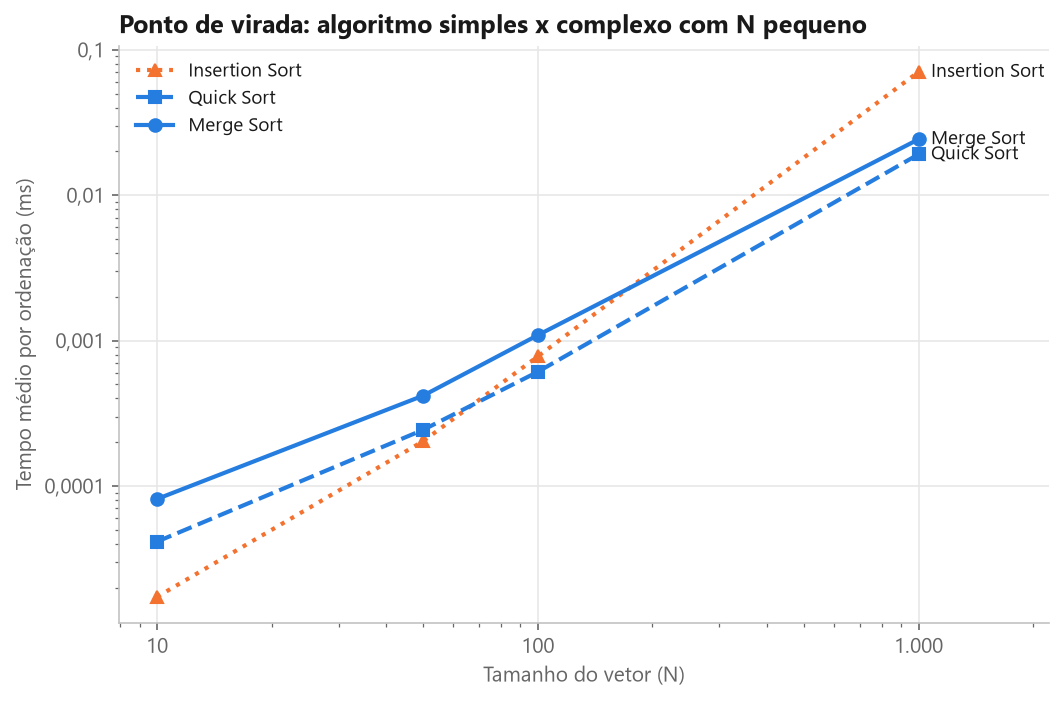
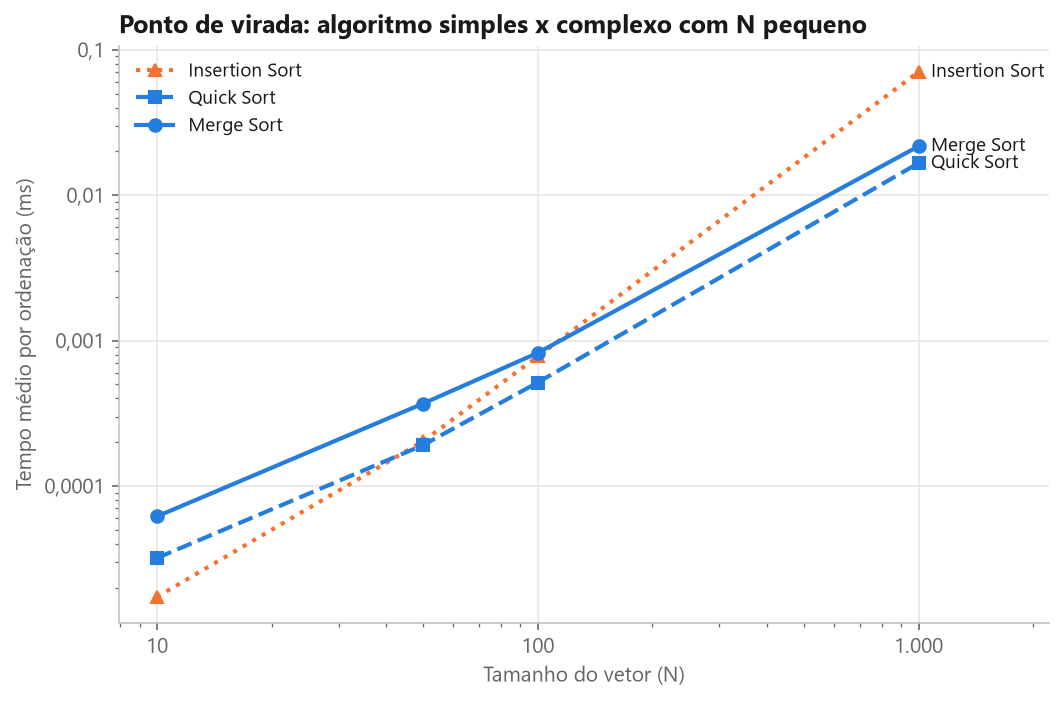
Remove alocacao de memoria da medicao de tempo
- Merge, Counting, Radix e Bucket Sort ganham versoes ...Aux que recebem
  os vetores auxiliares ja alocados
- benchmark.c pre-aloca essa memoria antes de qualquer medicao
- Nova opcao "sem_quadraticos" para medir so os algoritmos rapidos
- Resultados e graficos atualizados
- README documenta a correcao

Changed region(s): [[0.1242, 0.1797, 0.9624, 0.8088]]

diff --git a/benchmark.c b/benchmark.c
@@ -32,6 +32,43 @@
 #include "linear/radixSort.c"
 #include "linear/bucketSort.c"
 
+/* Memória de trabalho */
+
+// Merge, Counting, Radix e Bucket precisam de vetores auxiliares. Eles são
+// alocados uma vez só, antes de qualquer medição, e passados prontos para
+// as funções. Assim o tempo de alocação não entra no resultado.
+static int *trabAux, *trabCont, *trabBalde, *trabInicio, *trabPos;
+
+static void mergeSortBench(int *v, int n)    { mergeSortAux(v, n, trabAux); }
+static void countingSortBench(int *v, int n) { countingSortAux(v, n, trabCont, trabAux); }
+static void radixSortBench(int *v, int n)    { radixSortAux(v, n, trabAux); }
+static void bucketSortBench(int *v, int n) {
+    bucketSortAux(v, n, trabBalde, trabInicio, trabPos, trabAux);
+}
+
+// maxN: maior vetor testado; maxK: maior amplitude de valores
+static int alocarTrabalho(int maxN, int maxK) {
+    trabAux    = malloc((size_t)maxN * sizeof(int));
+    trabBalde  = malloc((size_t)maxN * sizeof(int));
+    trabPos    = malloc((size_t)maxN * sizeof(int));
+    trabInicio = malloc(((size_t)maxN + 1) * sizeof(int));
+    trabCont   = malloc((size_t)maxK * sizeof(int));
+    if (!trabAux || !trabBalde || !trabPos || !trabInicio || !trabCont) return 0;
+
+    // escreve em tudo uma vez, para o sistema já entregar a memória de
+    // verdade agora, e não durante a primeira medição
+    memset(trabAux,    0, (size_t)maxN * sizeof(int));
+    memset(trabBalde,  0, (size_t)maxN * sizeof(int));
+    memset(trabPos,    0, (size_t)maxN * sizeof(int));
+    memset(trabInicio, 0, ((size_t)maxN + 1) * sizeof(int));
+    memset(trabCont,   0, (size_t)maxK * sizeof(int));
+    return 1;
+}
+
+static void liberarTrabalho(void) {
+    free(trabAux); free(trabBalde); free(trabPos); free(trabInicio); free(trabCont);
+}
+
 /* Configuração do experimento */
 
 #define SEMENTE            12345      // semente fixa: o vetor sai sempre igual
@@ -64,12 +101,12 @@ static const Algoritmo ALGORITMOS[] = {
     {"Bubble Sort",    "Comparacao O(n^2)",     bubbleSort,    1},
     {"Selection Sort", "Comparacao O(n^2)",     selectionSort, 1},
     {"Insertion Sort", "Comparacao O(n^2)",     insertionSort, 1},
-    {"Merge Sort",     "Comparacao O(n log n)", mergeSort,     0},
-    {"Quick Sort",     "Comparacao O(n log n)", quickSort,     0},
-    {"Heap Sort",      "Comparacao O(n log n)", heapSort,      0},
-    {"Counting Sort",  "Linear O(n + k)",       countingSort,  0},
-    {"Radix Sort",     "Linear O(d(n + b))",    radixSort,     0},
-    {"Bucket Sort",    "Linear O(n + k)",       bucketSort,    0},
+    {"Merge Sort",     "Comparacao O(n log n)", mergeSortBench,    0},
+    {"Quick Sort",     "Comparacao O(n log n)", quickSort,         0},
+    {"Heap Sort",      "Comparacao O(n log n)", heapSort,          0},
+    {"Counting Sort",  "Linear O(n + k)",       countingSortBench, 0},
+    {"Radix Sort",     "Linear O(d(n + b))",    radixSortBench,    0},
+    {"Bucket Sort",    "Linear O(n + k)",       bucketSortBench,   0},
 };
 #define N_ALGORITMOS ((int)(sizeof(ALGORITMOS) / sizeof(ALGORITMOS[0])))
 
@@ -240,6 +277,8 @@ static void imprimirTabela(const char *titulo, const char *rotulo,
 
 int main(int argc, char *argv[]) {
     int rapido = (argc > 1 && strcmp(argv[1], "rapido") == 0);
+    // pula os O(n²): útil para medir de novo só os rápidos
+    int semQuadraticos = (argc > 1 && strcmp(argv[1], "sem_quadraticos") == 0);
     int nTam = N_TAMANHOS, nK = rapido ? 100000 : N_EXPERIMENTO_K;
     int t, a, k, lote, n, nLin;
     int todos[N_ALGORITMOS], lineares[N_ALGORITMOS];
@@ -254,6 +293,17 @@ int main(int argc, char *argv[]) {
     if (rapido) {
         nTam = 0;
         while (nTam < N_TAMANHOS && TAMANHOS[nTam] <= 10000) nTam++;
+    }
+
+    // tamanho da memória de trabalho: maior N e maior amplitude usados
+    {
+        int maxN = N_EXPERIMENTO_K, maxK = VALOR_MAX + 1;
+        for (t = 0; t < N_TAMANHOS; t++) if (TAMANHOS[t] > maxN) maxN = TAMANHOS[t];
+        for (k = 0; k < N_AMPLITUDES; k++) if (AMPLITUDES[k] > maxK) maxK = AMPLITUDES[k];
+        if (!alocarTrabalho(maxN, maxK)) {
+            fprintf(stderr, "Sem memoria para os vetores de trabalho\n");
+            return 1;
+        }
     }
 
     printf("Benchmark de algoritmos de ordenacao\n");
@@ -287,7 +337,7 @@ int main(int argc, char *argv[]) {
         qsort(ref, n, sizeof(int), comparar);
 
         for (a = 0; a < N_ALGORITMOS; a++) {
-            if (ALGORITMOS[a].quadratico && n > LIMITE_QUADRATICO) {
+            if (ALGORITMOS[a].quadratico && (n > LIMITE_QUADRATICO || semQuadraticos)) {
                 res1[a * N_TAMANHOS + t] = PULADO;
                 continue;
             }
@@ -366,6 +416,7 @@ int main(int argc, char *argv[]) {
     imprimirTabela("Experimento 2: tempo x amplitude dos valores", "K",
                    AMPLITUDES, N_AMPLITUDES, lineares, nLin, res2);
 
+    liberarTrabalho();
     printf("\nResultados salvos em resultados.csv e resultados_k.csv\n");
     return 0;
 }

diff --git a/linear/bucketSort.c b/linear/bucketSort.c
@@ -4,10 +4,13 @@
 // Bucket Sort: distribui os valores em n baldes por faixa de valor,
 // ordena cada balde com Insertion Sort e concatena.
 // Eficiente quando os valores são distribuídos de forma uniforme.
-void bucketSort(int *v, int n) {
+//
+// Recebe os vetores de trabalho já alocados (balde, pos e aux com n
+// posições; inicio com n + 1). O benchmark usa esta versão para não
+// medir a alocação.
+void bucketSortAux(int *v, int n, int *balde, int *inicio, int *pos, int *aux) {
     int i, j, b, chave, min, max;
     long long faixa;
-    int *balde, *inicio, *pos, *aux;
 
     if (n <= 1) return;
 
@@ -19,13 +22,9 @@ void bucketSort(int *v, int n) {
     }
     faixa = (long long)max - min + 1;
 
-    balde  = malloc(n * sizeof(int));       // balde de cada elemento
-    inicio = calloc(n + 1, sizeof(int));    // onde cada balde começa
-    pos    = malloc(n * sizeof(int));       // próxima posição livre do balde
-    aux    = malloc(n * sizeof(int));
-    if (!balde || !inicio || !pos || !aux) {
-        free(balde); free(inicio); free(pos); free(aux);
-        return;
+    // zera o tamanho dos baldes
+    for (b = 0; b <= n; b++) {
+        inicio[b] = 0;
     }
 
     // 1) calcula o balde de cada valor e conta o tamanho dos baldes
@@ -61,6 +60,18 @@ void bucketSort(int *v, int n) {
     // 5) baldes em ordem = vetor ordenado
     for (i = 0; i < n; i++) {
         v[i] = aux[i];
+    }
+}
+
+// Versão de uso geral: aloca os vetores de trabalho sozinha
+void bucketSort(int *v, int n) {
+    int *balde  = malloc(n * sizeof(int));          // balde de cada elemento
+    int *inicio = malloc((n + 1) * sizeof(int));    // onde cada balde começa
+    int *pos    = malloc(n * sizeof(int));          // próxima posição livre
+    int *aux    = malloc(n * sizeof(int));
+
+    if (balde && inicio && pos && aux) {
+        bucketSortAux(v, n, balde, inicio, pos, aux);
     }
 
     free(balde); free(inicio); free(pos); free(aux);

diff --git a/linear/countingSort.c b/linear/countingSort.c
@@ -4,13 +4,15 @@
 // Counting Sort: conta as ocorrências de cada valor e usa as contagens
 // para posicionar os elementos. Tempo O(n + k), espaço O(n + k),
 // onde k = max - min + 1 (amplitude dos valores).
-void countingSort(int *v, int n) {
+//
+// Recebe os vetores já alocados: cont com pelo menos k posições e aux com
+// n posições. O benchmark usa esta versão para não medir a alocação.
+void countingSortAux(int *v, int n, int *cont, int *aux) {
     int i, min, max, k;
-    int *cont, *aux;
 
     if (n <= 1) return;
 
-    // a amplitude k define o tamanho do vetor de contagem
+    // a amplitude k define quantas posições de cont serão usadas
     min = max = v[0];
     for (i = 1; i < n; i++) {
         if (v[i] < min) min = v[i];
@@ -18,11 +20,9 @@ void countingSort(int *v, int n) {
     }
     k = max - min + 1;
 
-    cont = calloc(k, sizeof(int));
-    aux  = malloc(n * sizeof(int));
-    if (cont == NULL || aux == NULL) {
-        free(cont); free(aux);
-        return;
+    // zera os contadores (faz parte do algoritmo: custo O(k))
+    for (i = 0; i < k; i++) {
+        cont[i] = 0;
     }
 
     // conta quantas vezes cada valor aparece
@@ -42,6 +42,26 @@ void countingSort(int *v, int n) {
 
     for (i = 0; i < n; i++) {
         v[i] = aux[i];
+    }
+}
+
+// Versão de uso geral: descobre k e aloca os vetores sozinha
+void countingSort(int *v, int n) {
+    int i, min, max;
+    int *cont, *aux;
+
+    if (n <= 1) return;
+
+    min = max = v[0];
+    for (i = 1; i < n; i++) {
+        if (v[i] < min) min = v[i];
+        if (v[i] > max) max = v[i];
+    }
+
+    cont = malloc((size_t)(max - min + 1) * sizeof(int));
+    aux  = malloc(n * sizeof(int));
+    if (cont != NULL && aux != NULL) {
+        countingSortAux(v, n, cont, aux);
     }
 
     free(cont);

diff --git a/linear/radixSort.c b/linear/radixSort.c
@@ -27,10 +27,11 @@ void ordenarPorDigito(int *v, int *aux, int n, long long exp) {
 
 // Radix Sort LSD (base 10): ordena dígito a dígito, do menos para o
 // mais significativo. Requer inteiros não negativos.
-void radixSort(int *v, int n) {
+// Recebe o vetor auxiliar (n posições) já alocado; o benchmark usa
+// esta versão para não medir o tempo de alocação.
+void radixSortAux(int *v, int n, int *aux) {
     int i, max;
     long long exp;
-    int *aux;
 
     if (n <= 1) return;
 
@@ -40,14 +41,18 @@ void radixSort(int *v, int n) {
         if (v[i] > max) max = v[i];
     }
 
-    aux = malloc(n * sizeof(int));
-    if (aux == NULL) return;
-
     // exp = 1, 10, 100, ... (unidade, dezena, centena, ...)
     for (exp = 1; max / exp > 0; exp *= 10) {
         ordenarPorDigito(v, aux, n, exp);
     }
+}
 
+// Versão de uso geral: aloca o auxiliar sozinha
+void radixSort(int *v, int n) {
+    int *aux = malloc(n * sizeof(int));
+    if (aux == NULL) return;
+
+    radixSortAux(v, n, aux);
     free(aux);
 }
 

diff --git a/comparacao/mergeSort.c b/comparacao/mergeSort.c
@@ -36,12 +36,18 @@ void mergeSortRec(int *v, int *aux, int ini, int fim) {
     intercalar(v, aux, ini, meio, fim);
 }
 
+// Recebe o vetor auxiliar (n posições) já alocado.
+// O benchmark usa esta versão para não medir o tempo de alocação.
+void mergeSortAux(int *v, int n, int *aux) {
+    if (n > 1) mergeSortRec(v, aux, 0, n - 1);
+}
+
+// Versão de uso geral: aloca o auxiliar sozinha (espaço extra O(n))
 void mergeSort(int *v, int n) {
-    // vetor auxiliar alocado uma única vez: espaço extra O(n)
     int *aux = malloc(n * sizeof(int));
     if (aux == NULL) return;
 
-    mergeSortRec(v, aux, 0, n - 1);
+    mergeSortAux(v, n, aux);
     free(aux);
 }
 

diff --git a/README.md b/README.md
@@ -74,7 +74,12 @@ novamente, rode o script de novo para atualizar os gráficos.
   cada algoritmo.
 - O cronômetro (`QueryPerformanceCounter`) mede somente a chamada da
   ordenação; geração, cópia e verificação ficam fora da medição.
+- Os vetores auxiliares de Merge, Counting, Radix e Bucket Sort são alocados
+  uma única vez, antes de qualquer medição, e passados prontos para as
+  funções (versões `...Aux`). Assim o tempo de alocação de memória não entra
+  no resultado.
 - Cada medição é repetida no mínimo 3 vezes (até 10 nos casos rápidos) e é
   registrada a média.
 - Todo resultado é comparado com a saída do `qsort` da biblioteca padrão.
 - Algoritmos O(n²) são executados até N = 500.000.
+
